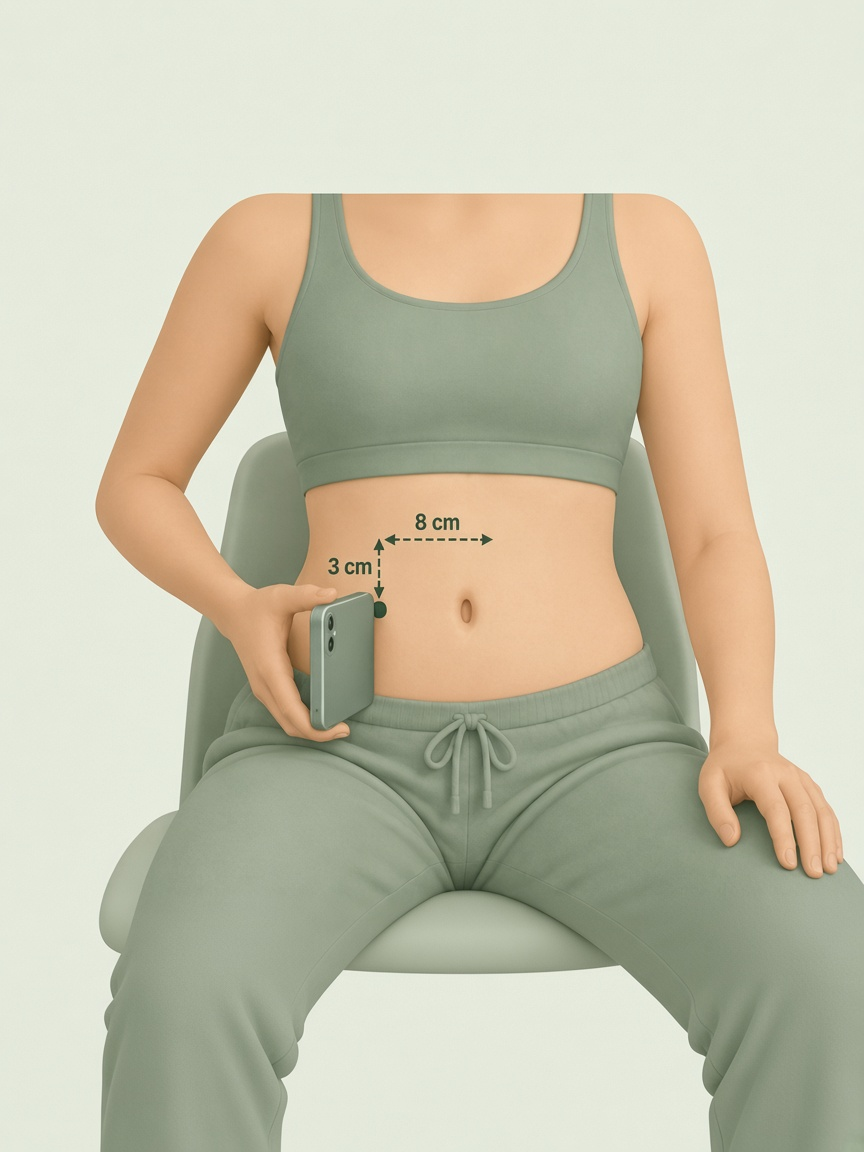
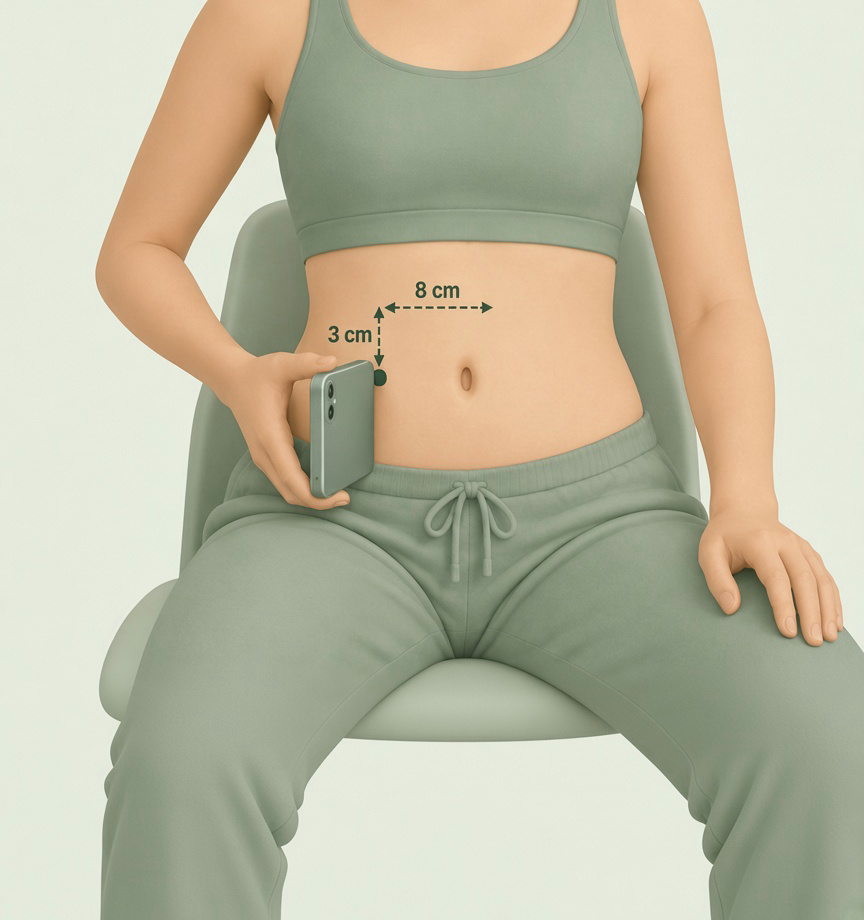
Tighten Progress and Next up, and keep quiz hints from giving away the answer.
Also crop the placement guide, and move the audio-privacy note onto the dry-run intro.

diff --git a/src/components/tummy/onboarding.tsx b/src/components/tummy/onboarding.tsx
@@ -179,14 +179,14 @@ const QUIZ = [
     options: ["On top of your shirt", "Directly on bare skin, with the case off"],
     answer: 1,
     why: "A shirt or a phone case holds the microphone off your skin. Gut sounds are too quiet to carry across that gap.",
-    hint: "The microphone needs to touch bare skin.",
+    hint: "Think about what the microphone needs in order to hear a quiet gut sound.",
   },
   {
     q: "You drank coffee 20 minutes ago. Can you still do a fasting recording?",
     options: ["Yes, drinks are acceptable", "No, even drinks are not permitted"],
     answer: 1,
     why: "Coffee, food, or anything other than a sip of water changes your gut activity, so the recording wouldn't count as fasting.",
-    hint: "Fasting here means nothing in your stomach except water.",
+    hint: "Think about what fasting means for this recording.",
   },
   {
     q: "After your chosen meal, when do you record?",
@@ -197,7 +197,7 @@ const QUIZ = [
     ],
     answer: 1,
     why: "Recording right after the meal and then every 30 minutes for 3.5 hours keeps the timing consistent across everyone in the study, so the data can be analyzed accurately.",
-    hint: "It starts when the meal ends, and the recordings are 30 minutes apart.",
+    hint: "Think about whether the post-meal times are a set schedule or up to you.",
   },
 
 ];
@@ -592,15 +592,9 @@ export function PermissionsScreen({ store }: { store: TummyStore }) {
     <Screen>
       <TopBar title="Permissions" onBack={store.back} step="Step 8 of 9" />
       <ScreenBody>
-        <Note tone="green" title="Audio stays private">
-          Recordings are encrypted and labelled with your subject ID only. No one on the study team
-          can link them back to you by name.
+        <Note tone="blue" title="Do not disturb is only for recordings">
+          Do not disturb turns on when a recording starts and off the moment it ends.
         </Note>
-        <div className="mt-3">
-          <Note tone="blue" title="Do not disturb is only for recordings">
-            Do not disturb turns on when a recording starts and off the moment it ends.
-          </Note>
-        </div>
         <div className="mt-4 space-y-3">
           {items.map(({ k, label, sub, Icon }) => (
             <Card key={k}>
@@ -739,6 +733,12 @@ export function PracticeRunScreen({ store }: { store: TummyStore }) {
             <p className="mt-3 text-[17px] font-semibold leading-snug text-pine-soft">
               Find a quiet room and tap start when you're ready. Nothing from this run is uploaded.
             </p>
+            <div className="mt-5 w-full text-left">
+              <Note tone="green" title="Audio stays private">
+                Recordings are encrypted and labelled with your subject ID only. No one on the study
+                team can link them back to you by name.
+              </Note>
+            </div>
           </div>
         </ScreenBody>
         <StickyFooter>

diff --git a/src/components/tummy/main.tsx b/src/components/tummy/main.tsx
@@ -196,7 +196,7 @@ export function HomeScreen({ store }: { store: TummyStore }) {
       </div>
 
       <ScreenBody className="pb-[180px] pt-3">
-        <p className="text-[28px] font-extrabold leading-none text-pine">Next up</p>
+        <p className="text-[18px] font-extrabold tracking-tight text-teal">Next up</p>
         <div
           className={cn(
             "relative mt-2 overflow-hidden rounded-[28px] p-5",
@@ -1161,23 +1161,18 @@ export function ProgressScreen({ store }: { store: TummyStore }) {
           <div className="relative flex items-center gap-3">
             <Mascot src={MASCOT.cheer} size={72} />
             <div className="min-w-0">
-              <p className="text-[34px] font-extrabold leading-none">Day {store.day} of 7</p>
-              <p className="text-[16px] font-bold text-surface/85">
-                {store.frozen
-                  ? "Freeze day. Your streak stays safe until tomorrow."
-                  : "Seven consecutive study days"}
-              </p>
+              <p className="text-[22px] font-extrabold leading-tight">Day {store.day} of 7</p>
             </div>
           </div>
-          <div className="relative mt-4 flex justify-between">
+          <div className="relative mt-6 grid grid-cols-7 gap-x-2.5">
             {days.map((d, i) => {
               const isFrozen = store.frozen && i === todayIdx;
               const isToday = i === todayIdx;
               return (
-                <div key={i} className="flex flex-col items-center gap-1">
+                <div key={i} className="flex flex-col items-center gap-1.5">
                   <span
                     className={cn(
-                      "flex h-11 w-11 items-center justify-center rounded-full border-[3px]",
+                      "flex h-10 w-10 items-center justify-center rounded-full border-[3px]",
                       isFrozen
                         ? "border-surface bg-surface text-blue"
                         : d

diff --git a/src/components/tummy/recording.tsx b/src/components/tummy/recording.tsx
@@ -665,8 +665,8 @@ export function AbdomenGuide() {
         src={placementArt}
         alt="A seated participant holding a portrait phone against bare skin, 8 centimetres to their right and 3 centimetres below their belly button"
         loading="lazy"
-        width={1254}
-        height={872}
+        width={864}
+        height={920}
         className="w-full rounded-2xl"
       />
     </figure>
